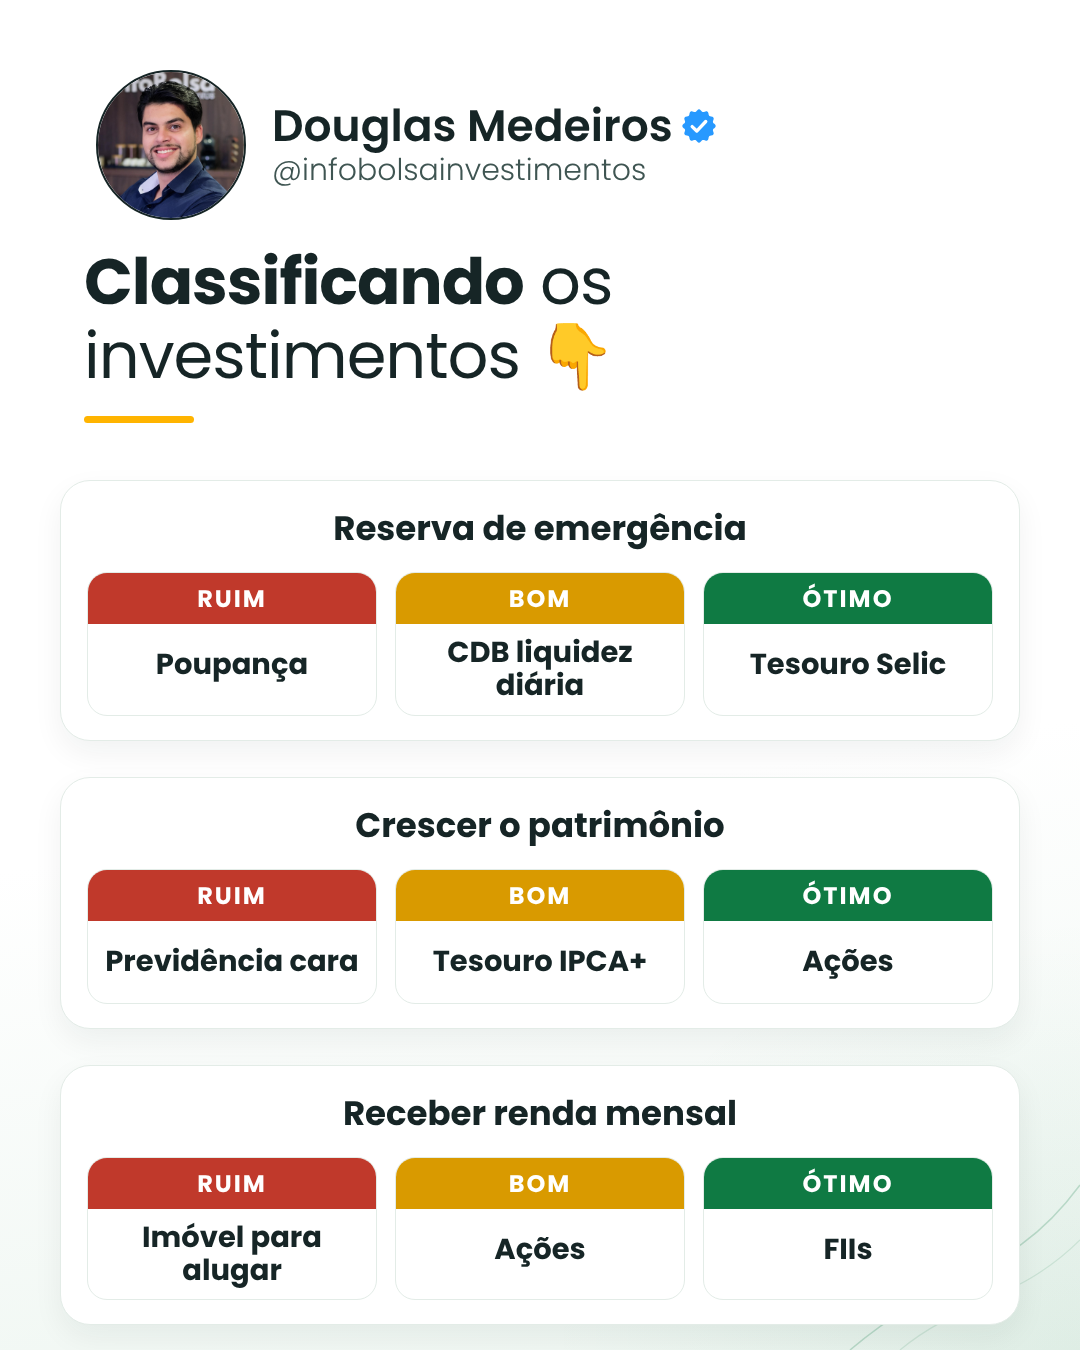
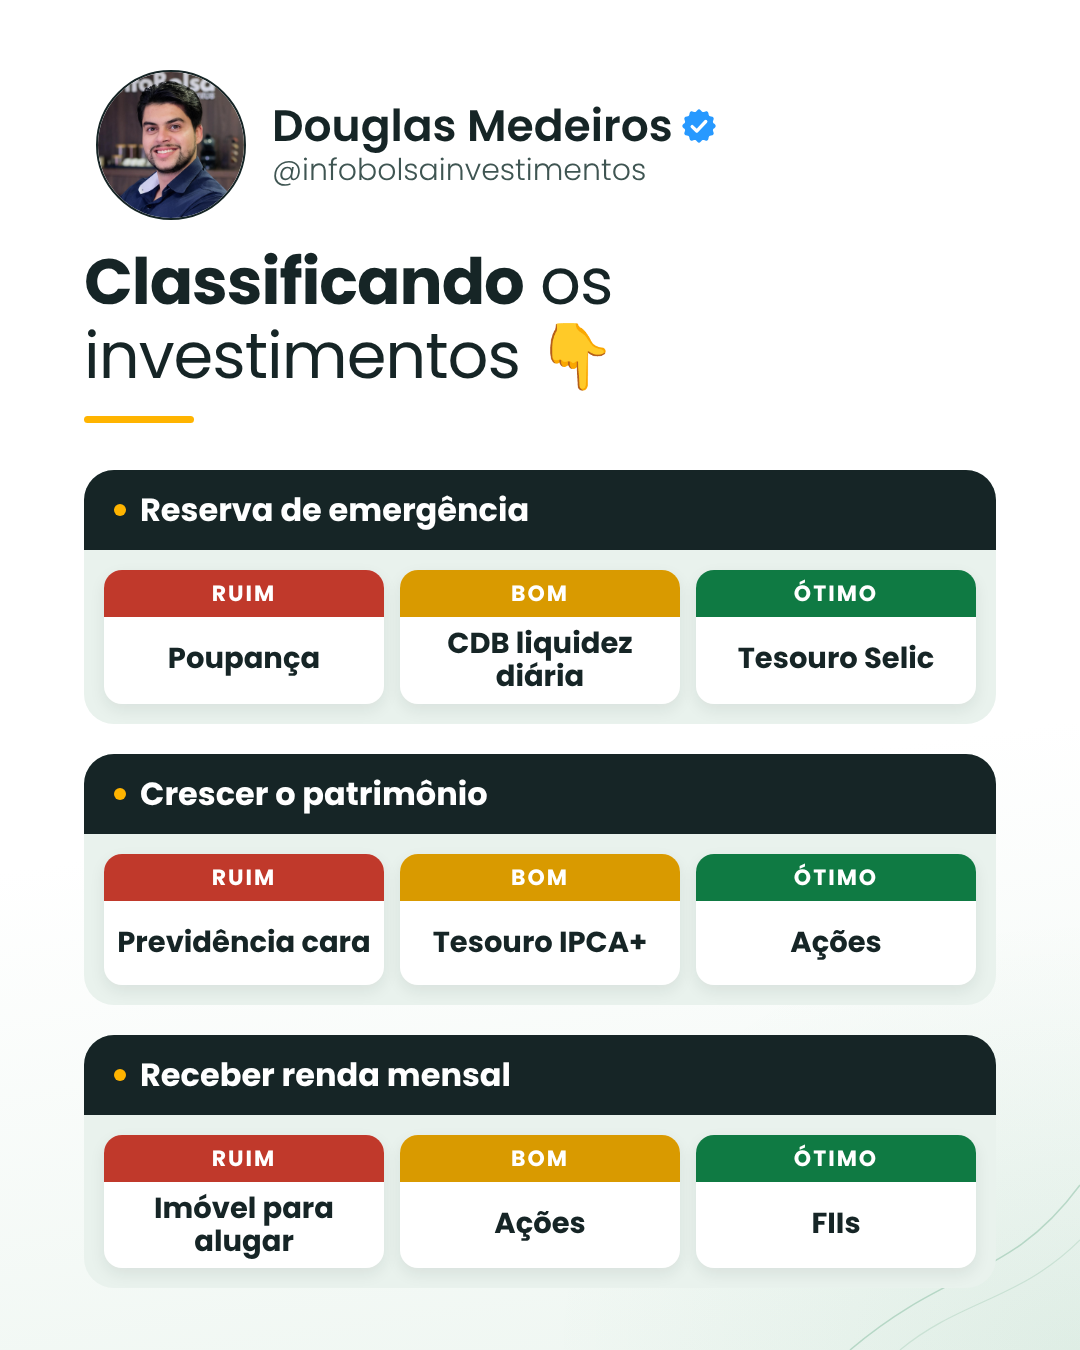
Classificando: blocos com faixa escura e fundo verde claro
Claude-Session: https://claude.ai/code/session_01V4Ut9U2W4uPbxLAyJQKmJH

Changed region(s): [[0.0611, 0.3422, 0.9472, 0.9956]]

diff --git a/kit/gen_qua.py b/kit/gen_qua.py
@@ -75,13 +75,14 @@ C = [("Reserva de emergência", ["Poupança", "CDB liquidez diária", "Tesouro S
      ("Crescer o patrimônio", ["Previdência cara", "Tesouro IPCA+", "Ações"]),
      ("Receber renda mensal", ["Imóvel para alugar", "Ações", "FIIs"])]
 CSS3 = """
-.cl{position:absolute;left:60px;right:60px;top:480px;display:flex;flex-direction:column;gap:36px}
-.bl{background:#fff;border:1.5px solid #e3ece7;border-radius:30px;padding:22px 26px 24px;box-shadow:0 12px 30px rgba(22,37,38,.06)}
-.bl h3{margin:0 0 18px;font-weight:700;font-size:34px;color:#162526;text-align:center}
-.bl .g3{display:grid;grid-template-columns:1fr 1fr 1fr;gap:18px}
-.cbx{border-radius:20px;overflow:hidden;border:1.5px solid #e3ece7;text-align:center}
-.cbx .cbl{font-weight:700;font-size:24px;letter-spacing:2px;color:#fff;padding:8px 0}
-.cbx .cbn{font-weight:700;font-size:29px;color:#162526;padding:12px 10px;min-height:82px;display:flex;align-items:center;justify-content:center;line-height:1.15}
+.cl{position:absolute;left:84px;right:84px;top:470px;display:flex;flex-direction:column;gap:30px}
+.bl{background:#e9f2ed;border-radius:30px;overflow:hidden}
+.bl h3{margin:0;font-weight:700;font-size:32px;color:#fff;background:#162526;padding:16px 30px;display:flex;align-items:center;gap:14px}
+.bl h3:before{content:'';width:12px;height:12px;border-radius:50%;background:#FFB400}
+.bl .g3{display:grid;grid-template-columns:1fr 1fr 1fr;gap:16px;padding:20px}
+.cbx{border-radius:18px;overflow:hidden;background:#fff;text-align:center;box-shadow:0 6px 16px rgba(22,37,38,.08)}
+.cbx .cbl{font-weight:700;font-size:22px;letter-spacing:2px;color:#fff;padding:7px 0}
+.cbx .cbn{font-weight:700;font-size:29px;color:#162526;padding:10px 10px;min-height:84px;display:flex;align-items:center;justify-content:center;line-height:1.15}
 """
 lbs = [("RUIM", "#c0392b"), ("BOM", "#d99a00"), ("ÓTIMO", "#0f7a43")]
 bl = ""
